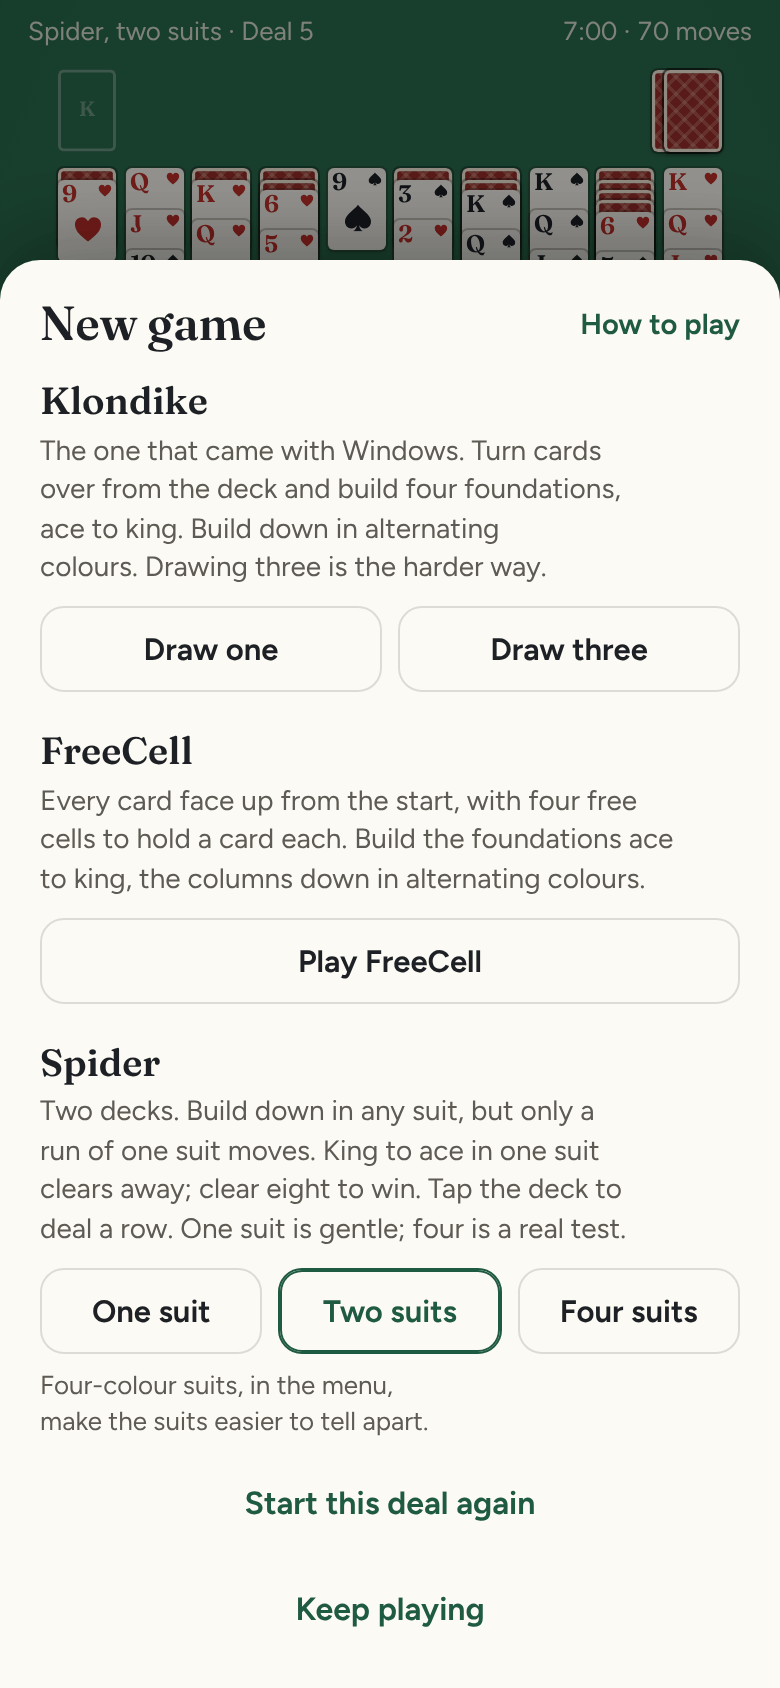
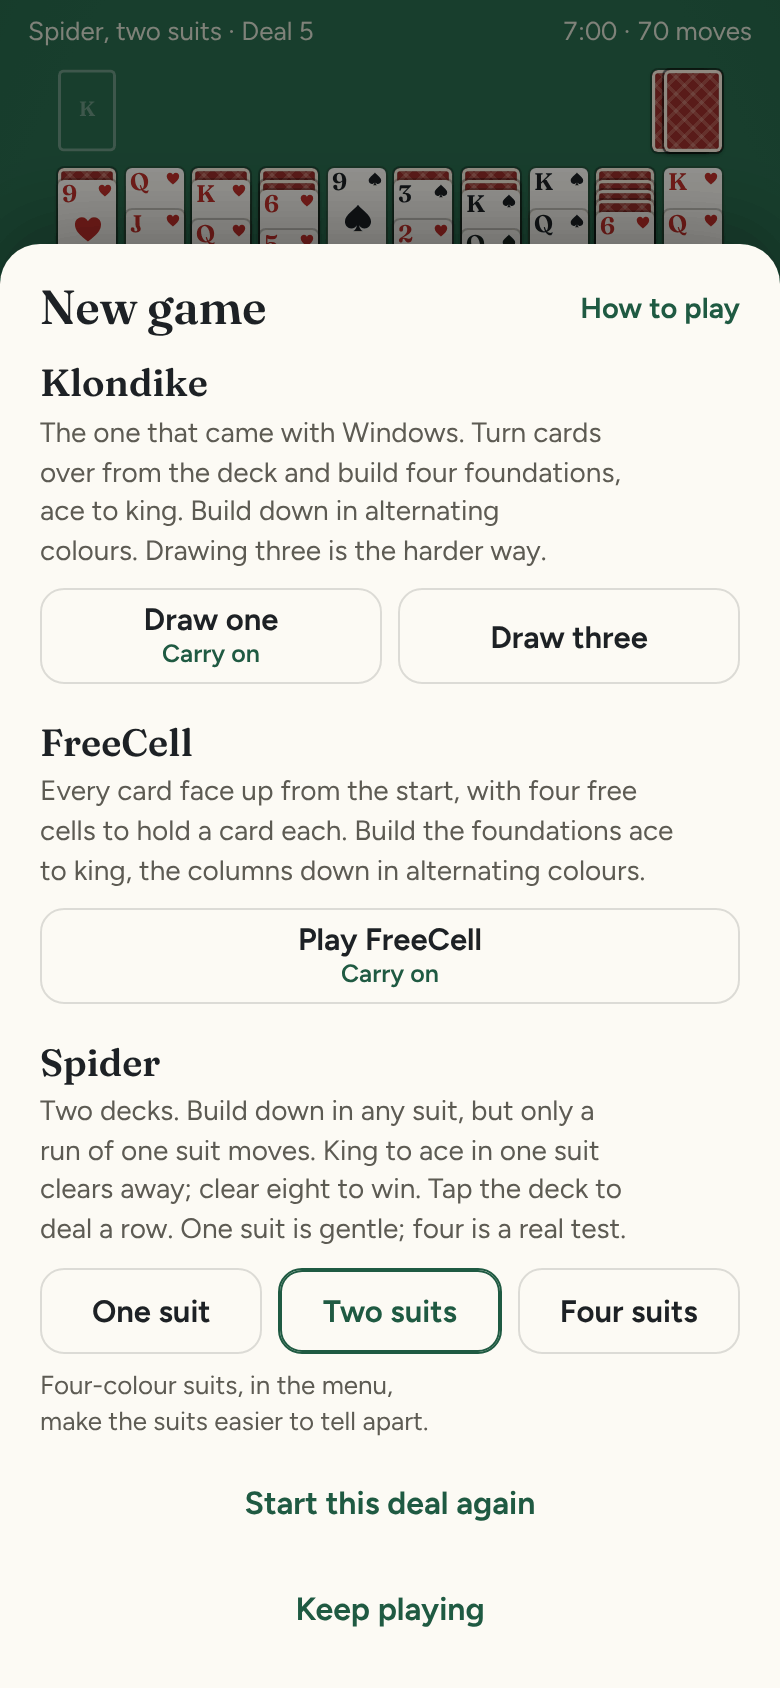
Each way of playing keeps its own game, so trying another no longer loses the one you were in
There was one saved game, so choosing FreeCell a few moves into a Klondike game counted the Klondike game as a loss and
threw it away: a newcomer who tried all six ways had played six, won none, and had nothing to go back to. Now the
game on the table goes aside, with its Undo history and its clock, when another way is chosen, and New game says Carry
on under each way with a game waiting; choosing it brings that game back as it was. Only a new deal of the same way
counts a game as a loss, and the note at the top of New game says so. The save keeps a game for each way, cutting the
waiting games' Undo history first if the browser's storage fills up, and a save with one game in it comes back as the
game of its way. Two tabs still follow each other, now onto whichever way the other is playing. This answers Mark's
question on keeping a game in progress for each way of playing.

Claude-Session: https://claude.ai/code/session_01PQbLNWcaN23kNnArnK42HQ

Changed region(s): [[0.0, 0.1232, 0.9846, 0.4005], [0.0308, 0.4313, 0.8615, 0.5853], [0.9846, 0.154, 1.0, 0.1848]]

diff --git a/js/app.js b/js/app.js
@@ -36,6 +36,9 @@ const settings = settingsOf(saved.settings);
 const stats = Object.fromEntries(Object.keys(VARIANTS).map(v => [v, record(saved.stats?.[v])]));
 // The games this phone has said its first word on (see firstWord()): 'klondike', 'freecell', 'spider'.
 const introduced = new Set(Array.isArray(saved.introduced) ? saved.introduced.filter(g => typeof g === 'string') : []);
+// The game waiting for each other way of playing, put aside to play another (see newGame()), by way of playing:
+// { state, history, elapsed, counted }, as saved. The game on the table isn't in it.
+const waiting = {};
 
 let game = null;      // where the cards are now
 let history = [];     // where they were before each move, for Undo
@@ -240,7 +243,10 @@ function undo() {
   say('Undone.');
 }
 
+// A new game of way `v` (deal `number`, or the next one). Another way of playing, with a game waiting for it, carries on
+// with that game instead, unless a deal is asked for by its number.
 async function newGame(v, number) {
+  if (number === undefined && game && v !== game.v && waiting[v]) { carryOn(v); return; }
   const ticket = ++dealing;
   // Chosen from a sheet or the won panel, the table takes focus, so the keyboard's Space and Enter play the new deal.
   if (closeSheets() + closeWon()) focusTable();
@@ -264,10 +270,48 @@ async function newGame(v, number) {
   const n = number ?? (settings.winnable ? await dealer.take(v) : g.randomDeal());
   if (ticket !== dealing) return; // another game was chosen while this one was being shuffled
   clearTimeout(slow);
-  // Leaving a game part way counts as a loss. Not until the new deal is here: a page closed while it's still being
-  // shuffled opens on the same game again, which isn't lost.
-  if (inPlay()) stats[game.v].streak = 0;
+  // A new deal counts the game of the same way it replaces as a loss, if it was part way. A game of another way goes
+  // aside, to carry on with later. Not until the new deal is here: a page closed while it's still being shuffled opens
+  // on the same game again, which isn't lost.
+  if (game?.v === v) { if (inPlay()) stats[v].streak = 0; }
+  else {
+    if (waiting[v]?.counted) stats[v].streak = 0; // only when a deal of it is asked for by number
+    delete waiting[v];
+    putAside();
+  }
   start(g.deal(n, v));
+}
+
+// The game on the table goes aside, Undo, clock and all, until its way of playing is chosen again. A game won is over,
+// and doesn't.
+function putAside() {
+  if (!game || over()) return;
+  stopClock();
+  waiting[game.v] = { state: game, history: history.slice(-2000), elapsed, counted };
+}
+
+// Back to the game waiting for way `v`, as it was left, and the one on the table goes aside.
+function carryOn(v) {
+  dealing++; // a deal still being shuffled isn't wanted now
+  if (closeSheets() + closeWon()) focusTable();
+  hideToast();
+  cancelChain();
+  clearTimeout(landed);
+  clearTimeout(slow);
+  busy(false);
+  table.clearHint();
+  putAside();
+  const g = waiting[v];
+  delete waiting[v];
+  settings.variant = v;
+  news = null;
+  winNews = null;
+  liftNoted = false;
+  take(g);
+  write();
+  say(`${label(v)}, deal ${game.deal.toLocaleString('en-US')}, as you left it.`);
+  after();
+  if (settings.winnable) dealer.prepare(v);
 }
 
 function restart() {
@@ -566,31 +610,51 @@ function read(text) {
   let s = null;
   try { s = JSON.parse(text); } catch { /* none, or not readable */ }
   if (!isObj(s)) return {};
-  for (const k of ['settings', 'stats', 'next', 'game']) if (!isObj(s[k]) && !(k === 'game' && s[k] === null)) delete s[k];
+  for (const k of ['settings', 'stats', 'next', 'games']) if (!isObj(s[k])) delete s[k];
   if (!Array.isArray(s.introduced)) delete s.introduced;
   // The first version only played Klondike, and kept the draw count where the way of playing now goes.
   if (s.settings && !s.settings.variant && s.settings.draw) s.settings.variant = 'k' + s.settings.draw;
   if (s.stats?.[1] || s.stats?.[3]) { s.stats.k1 ??= s.stats[1]; s.stats.k3 ??= s.stats[3]; }
-  if (s.game) { s.game.state = upgrade(s.game.state); s.game.history = (Array.isArray(s.game.history) ? s.game.history : []).map(upgrade); }
+  // Saves before November 2026 kept one game, under `game` (null once it was won): it's the game of its way of playing.
+  if (!s.games && isObj(s.game)) {
+    const g = { ...s.game, state: upgrade(s.game.state), history: (Array.isArray(s.game.history) ? s.game.history : []).map(upgrade) };
+    if (typeof g.state?.v === 'string') s.games = { [g.state.v]: g };
+  }
+  s.games ??= {};
+  delete s.game;
   return s;
 }
+
+// The games waiting don't change while they wait, so each is made into text once, not at every move.
+const texts = new WeakMap();
+const textOf = g => { let t = texts.get(g); if (t === undefined) texts.set(g, (t = JSON.stringify(g))); return t; };
 
 function write() {
   let ok = false;
   try {
     // The whole undo list goes too, so Undo still goes all the way back after the page is closed. The last 2,000 moves
-    // is more than a game takes, and keeps the save to about a megabyte even in Spider. A game won is left out.
-    const g = game && !over() ? { state: game, history: history.slice(-2000), elapsed: played(), counted } : null;
-    const save = { settings, stats, next: dealer?.kept(), game: g, introduced: [...introduced] };
-    let text = JSON.stringify(save);
+    // is more than a game takes, and keeps a game to about a megabyte even in Spider. A game won is left out.
+    const now = game && !over() ? { state: game, history: history.slice(-2000), elapsed: played(), counted } : null;
+    const games = Object.entries(waiting).filter(([v]) => v !== game?.v);
+    if (now) games.push([game.v, now]);
+    const head = JSON.stringify({ settings, stats, next: dealer?.kept(), introduced: [...introduced] }).slice(0, -1);
+    // `cut`: the games whose Undo history is cut to its last 200 moves.
+    const build = (cut = () => false) => `${head},"games":{${games.map(([v, g]) =>
+      `${JSON.stringify(v)}:${cut(v) && g.history.length > 200 ? JSON.stringify({ ...g, history: g.history.slice(-200) }) : g === now ? JSON.stringify(g) : textOf(g)}`).join(',')}}}`;
+    let text = build();
     try {
       localStorage.setItem(KEY, text);
     } catch (e) {
-      // With the browser's storage full, the record and the game still go, with less of the Undo history.
-      if (!g || g.history.length <= 200) throw e;
-      g.history = g.history.slice(-200);
-      text = JSON.stringify(save);
-      localStorage.setItem(KEY, text);
+      // With the browser's storage full, the record and the games still go, with less of the Undo history: the games
+      // waiting lose theirs first, then the game on the table.
+      if (games.every(([, g]) => g.history.length <= 200)) throw e;
+      try {
+        text = build(v => v !== game?.v || !now);
+        localStorage.setItem(KEY, text);
+      } catch {
+        text = build(() => true);
+        localStorage.setItem(KEY, text);
+      }
     }
     lastWritten = text;
     ok = true;
@@ -609,9 +673,10 @@ function kept(ok) {
 }
 
 // Another tab, or the installed app beside a browser tab, shares this save. When it saves, this page takes up what it
-// saved, so neither one writes its own old copy over the other's record or game: the record and the settings at once,
-// and the game once nothing is being dragged or dealt here. The other page having won the game this one shows, this
-// one's is won too, and isn't counted or played again.
+// saved, so neither one writes its own old copy over the other's record or games: the record and the settings at once,
+// and the games once nothing is being dragged or dealt here. This page then shows the game the other one is playing,
+// with the others waiting as it left them. The other page having won the game this one shows, this one's is won too,
+// and isn't counted or played again.
 let adopting = 0;
 function adopt() {
   clearTimeout(adopting);
@@ -626,8 +691,18 @@ function adopt() {
   if (!$('sheet-menu').hidden) showStats($('stats-for').value);
   if (table.drag || (table.locked && $('won').hidden)) { adopting = setTimeout(adopt, 250); return; }
   lastWritten = text;
-  if (s.game === null) {
-    if (!game || over()) return;
+  const v = settings.variant; // the way of playing the other page is on
+  for (const k of Object.keys(waiting)) delete waiting[k];
+  for (const [k, g] of Object.entries(s.games)) {
+    const ok = k !== v && playable(g);
+    if (ok && ok.state.v === k) waiting[k] = ok;
+  }
+  const g = playable(s.games[v]);
+  if (!g || g.state.v !== v) {
+    // No game of that way saved: the other page has won it. If it's the one here, it's won here too. Otherwise this page
+    // keeps its own game.
+    if (game) { delete waiting[game.v]; settings.variant = game.v; }
+    if (!game || game.v !== v || over()) return;
     winCounted = true;
     counted = false;
     stopClock();
@@ -636,8 +711,7 @@ function adopt() {
     showInfo();
     return;
   }
-  const g = playable(s.game);
-  if (!g || JSON.stringify(g.state) === JSON.stringify(game)) return;
+  if (JSON.stringify(g.state) === JSON.stringify(game)) return;
   cancelChain();
   clearTimeout(landed);
   closeWon();
@@ -716,6 +790,15 @@ document.querySelectorAll('[data-close]').forEach(b => b.addEventListener('click
 function openNew() {
   hideToast();
   $('new-note').hidden = !inPlay();
+  // The other ways of playing with a game waiting say so: choosing one carries on with it.
+  document.querySelectorAll('[data-v]').forEach(b => {
+    b.querySelector('.waits')?.remove();
+    if (!waiting[b.dataset.v] || b.dataset.v === game?.v) return;
+    const line = document.createElement('span');
+    line.className = 'waits';
+    line.textContent = 'Carry on';
+    b.append(line);
+  });
   $('b-restart').hidden = !game || !game.moves;
   $('b-keep').textContent = game && over() ? 'Close' : 'Keep playing'; // a game won is over, so there's no playing on
   document.querySelectorAll('[data-v]').forEach(b => {
@@ -876,7 +959,11 @@ if ((matchMedia('(display-mode: standalone)').matches || navigator.standalone ==
 // ---- starting up: carry on with the saved game, or deal a new one ----
 
 apply();
-if (!resume(saved.game)) newGame(settings.variant);
+for (const [v, g] of Object.entries(saved.games ?? {})) {
+  const ok = v !== settings.variant && playable(g);
+  if (ok && ok.state.v === v) waiting[v] = ok;
+}
+if (!resume(saved.games?.[settings.variant])) newGame(settings.variant);
 
 // A saved game, if it's one that can be played: { state, history, elapsed, counted }, or null. Undo goes back as far
 // as the history is sound: a damaged entry, and every one before it, is left out.
@@ -927,7 +1014,7 @@ function take(g) {
 // is dropped, and a new one dealt, keeping the settings and the record.
 function resume(kept) {
   const g = playable(kept);
-  if (!g) return false;
+  if (!g || g.state.v !== settings.variant) return false;
   try {
     take(g);
     after();
@@ -953,4 +1040,5 @@ window.patience = {
   newGame,
   settings,
   stats,
+  waiting,
 };

diff --git a/index.html b/index.html
@@ -53,7 +53,7 @@
         <h2 id="new-title">New game</h2>
         <button type="button" class="small-plain" id="b-howto">How to play</button>
       </div>
-      <p class="note" id="new-note" hidden>A new deal counts the game you're in as a loss. Starting this deal again doesn't.</p>
+      <p class="note" id="new-note" hidden>A new deal of this game counts the one you're in as a loss. Starting this deal again doesn't.</p>
       <div class="games">
         <div class="pick">
           <h3>Klondike</h3>
@@ -147,7 +147,7 @@
         </details>
         <p class="small">In every game, tap a card to send it to the best place, or drag it where you want it. Hint lights up a card and where it goes: tap either one and the move is played. On a keyboard: <kbd>Space</kbd> uses the deck in Klondike and Spider, <kbd>Z</kbd> undoes, <kbd>H</kbd> gives a hint, <kbd>Enter</kbd> plays it and <kbd>N</kbd> opens New game (<kbd>Enter</kbd> there deals another of the same).</p>
       </div>
-      <p class="small">No ads, no account. Your game and your record stay on this device, and once it has loaded it works with no signal. Add it to your home screen to keep it like an app.</p>
+      <p class="small">No ads, no account. Your games and your record stay on this device, and once it has loaded it works with no signal. Add it to your home screen to keep it like an app.</p>
 
       <footer class="jd-foot">
         <a href="https://junkdrawer.works/">Part of junkdrawer.works</a>

diff --git a/css/app.css b/css/app.css
@@ -581,6 +581,9 @@ button { font: inherit; color: inherit; }
   .choice:hover { border-color: var(--accent); }
 }
 .choice.current { border-color: var(--accent); box-shadow: inset 0 0 0 1px var(--accent); color: var(--accent); }
+/* A way of playing with a game waiting says so under its name. */
+.choice:has(.waits) { padding-block: 5px; }
+.choice .waits { display: block; font-size: 12.5px; font-weight: 600; line-height: 1.3; color: var(--accent); }
 .plain {
   display: block;
   width: 100%;
@@ -609,6 +612,7 @@ button { font: inherit; color: inherit; }
   #sheet-new .choice { padding: 9px 12px; font-size: 15px; }
   #sheet-new .pick:last-child .choice { padding: 9px 6px; font-size: 14.5px; }
   #sheet-new .pick .aside { margin: 5px 0 0; font-size: 12.5px; line-height: 1.3; }
+  #sheet-new .pick .choice:has(.waits) { padding-block: 3px; }
   .plains { display: flex; gap: 8px; margin-top: 6px; }
   .plains .plain { margin-top: 0; }
 }

diff --git a/sw.js b/sw.js
@@ -8,7 +8,7 @@
 // fingerprint of every file in SHELL: change any of them and test/e2e.mjs fails until FILES is changed to match (it
 // says what to), which changes this file, so every copy is made whole again at once.
 const CACHE = 'patience-v7'; // bump the number when the file list changes
-const FILES = '12e8603d'; // test/e2e.mjs checks this
+const FILES = 'f25ff097'; // test/e2e.mjs checks this
 const SHELL = [
   './', 'index.html', 'icon.svg', 'manifest.webmanifest', 'icon-180.png', 'icon-192.png',
   'css/app.css', 'fonts/fraunces.woff2', 'fonts/figtree.woff2',

diff --git a/README.md b/README.md
@@ -12,7 +12,7 @@
   <img src="docs/phone-spider.png" alt="Spider with two suits, deal 5, after 70 moves: ten columns with long runs of spades and hearts, and two rows left to deal in the corner" width="250">
 </p>
 <p align="center">
-  <img src="docs/phone-new.png" alt="The New game sheet: How to play at the top, then Klondike drawing one or three, FreeCell, and Spider with one, two or four suits, each with a line about how it plays" width="250">
+  <img src="docs/phone-new.png" alt="The New game sheet: How to play at the top, then Klondike drawing one or three, FreeCell, and Spider with one, two or four suits, each with a line about how it plays, and Carry on under Draw one and Play FreeCell, which have games waiting" width="250">
   &nbsp;
   <img src="docs/phone-won.png" alt="A won Klondike game: the cards bouncing off the foundations and leaving trails across the table, behind a panel saying You won, deal 52,817, in 4:41 and 161 moves, your fastest yet by 19 seconds, 18 won of 24 and a streak of 5, then Next deal, Play this deal again and Choose a game" width="250">
 </p>
@@ -25,6 +25,7 @@
 - **Tap or drag.** A tap sends cards to the best place: up to a foundation if they can go, otherwise onto a column (in FreeCell, a single card from a column goes onto a card it fits, then to a free cell, and only then to an empty column, which is kept for a run; in Spider, a card of the same suit first, and a card in a run of its own suit only onto another card of that suit). Hint lights up a card and where it goes: tap either one and the move is played. Drag a card, or a run, anywhere the rules allow, and the place it would land lights up softly as you hold it there; drop it somewhere it doesn't fit and it slides back, saying why when it's a rule you mightn't know yet: only a king can go in an empty Klondike column, how many cards FreeCell has room to move together, and (once a deal) that only a run of one suit moves together in Spider.
 - **A first word.** The first time you're dealt each game on a phone, one line says how it plays, with a How to play button that opens its rules in the menu. The New game sheet has a How to play button too.
 - **Undo all the way back,** even after closing the page and coming back to it.
+- **A game waiting for each way of playing.** Try FreeCell in the middle of a Klondike game and your Klondike game waits where you left it, with its Undo and its clock: choose Klondike again in New game, where it says Carry on, and you're back in it. Only a new deal of the same way counts a game you're part way through as a loss.
 - **Deals that can be won.** Before a deal reaches you, a solver plays it through, seeing every face-down card, and any deal it can't win in time is shuffled away. So that you never wait for one, the first game of each way of playing comes from a list of deals already checked, and the next is found in the background while you play. Turn this off in the menu if you'd rather take your chances.
 - **A hint that knows the way.** Hint asks the same solver for the next move from where you are, and while you do what it says, it keeps to the way it found, even when you try something else, ask it there, and undo back. When it's drawing for a card further down the deck, it says which one. If an earlier move has left no way to win, it says so, and Take me back goes back as many moves as it takes to where the game can still be won, says how many, and shows the way on from there; Undo beside it goes back one move at a time. And once no move you could make would ever help, the game says so without being asked, with the same Take me back.
 - **Cards go up by themselves** in Klondike and FreeCell once nothing on the table could still need them, and when the rest is in order the game finishes itself. Drawing one, that's as soon as every card in the columns is face up, turning cards from the deck as it goes. You can switch the first part off.
@@ -32,7 +33,7 @@
 - **Your record** for each of the six ways of playing: games played, won, win rate, streak, best streak and fastest win.
 - **Settings:** only deal games that can be won, send cards up by themselves, show the time and moves, four-colour suits (clubs green, diamonds blue), the deck on the left instead of under your right thumb, and the look: light or dark, or whatever your phone is set to.
 - **On a keyboard,** Space uses the deck in Klondike and Spider, Z undoes, H gives a hint, Enter plays it and N opens New game (Enter there deals another of the same).
-- No ads, no account and no server. Your game, your record and your settings stay in your browser. It works offline and installs to a phone's home screen. On an iPhone, installing it keeps your record safest: Safari clears what a site has saved after seven days of using Safari without opening it, and an app on the home screen keeps its own count.
+- No ads, no account and no server. Your games, your record and your settings stay in your browser. It works offline and installs to a phone's home screen. On an iPhone, installing it keeps your record safest: Safari clears what a site has saved after seven days of using Safari without opening it, and an app on the home screen keeps its own count.
 
 ## Running it
 
